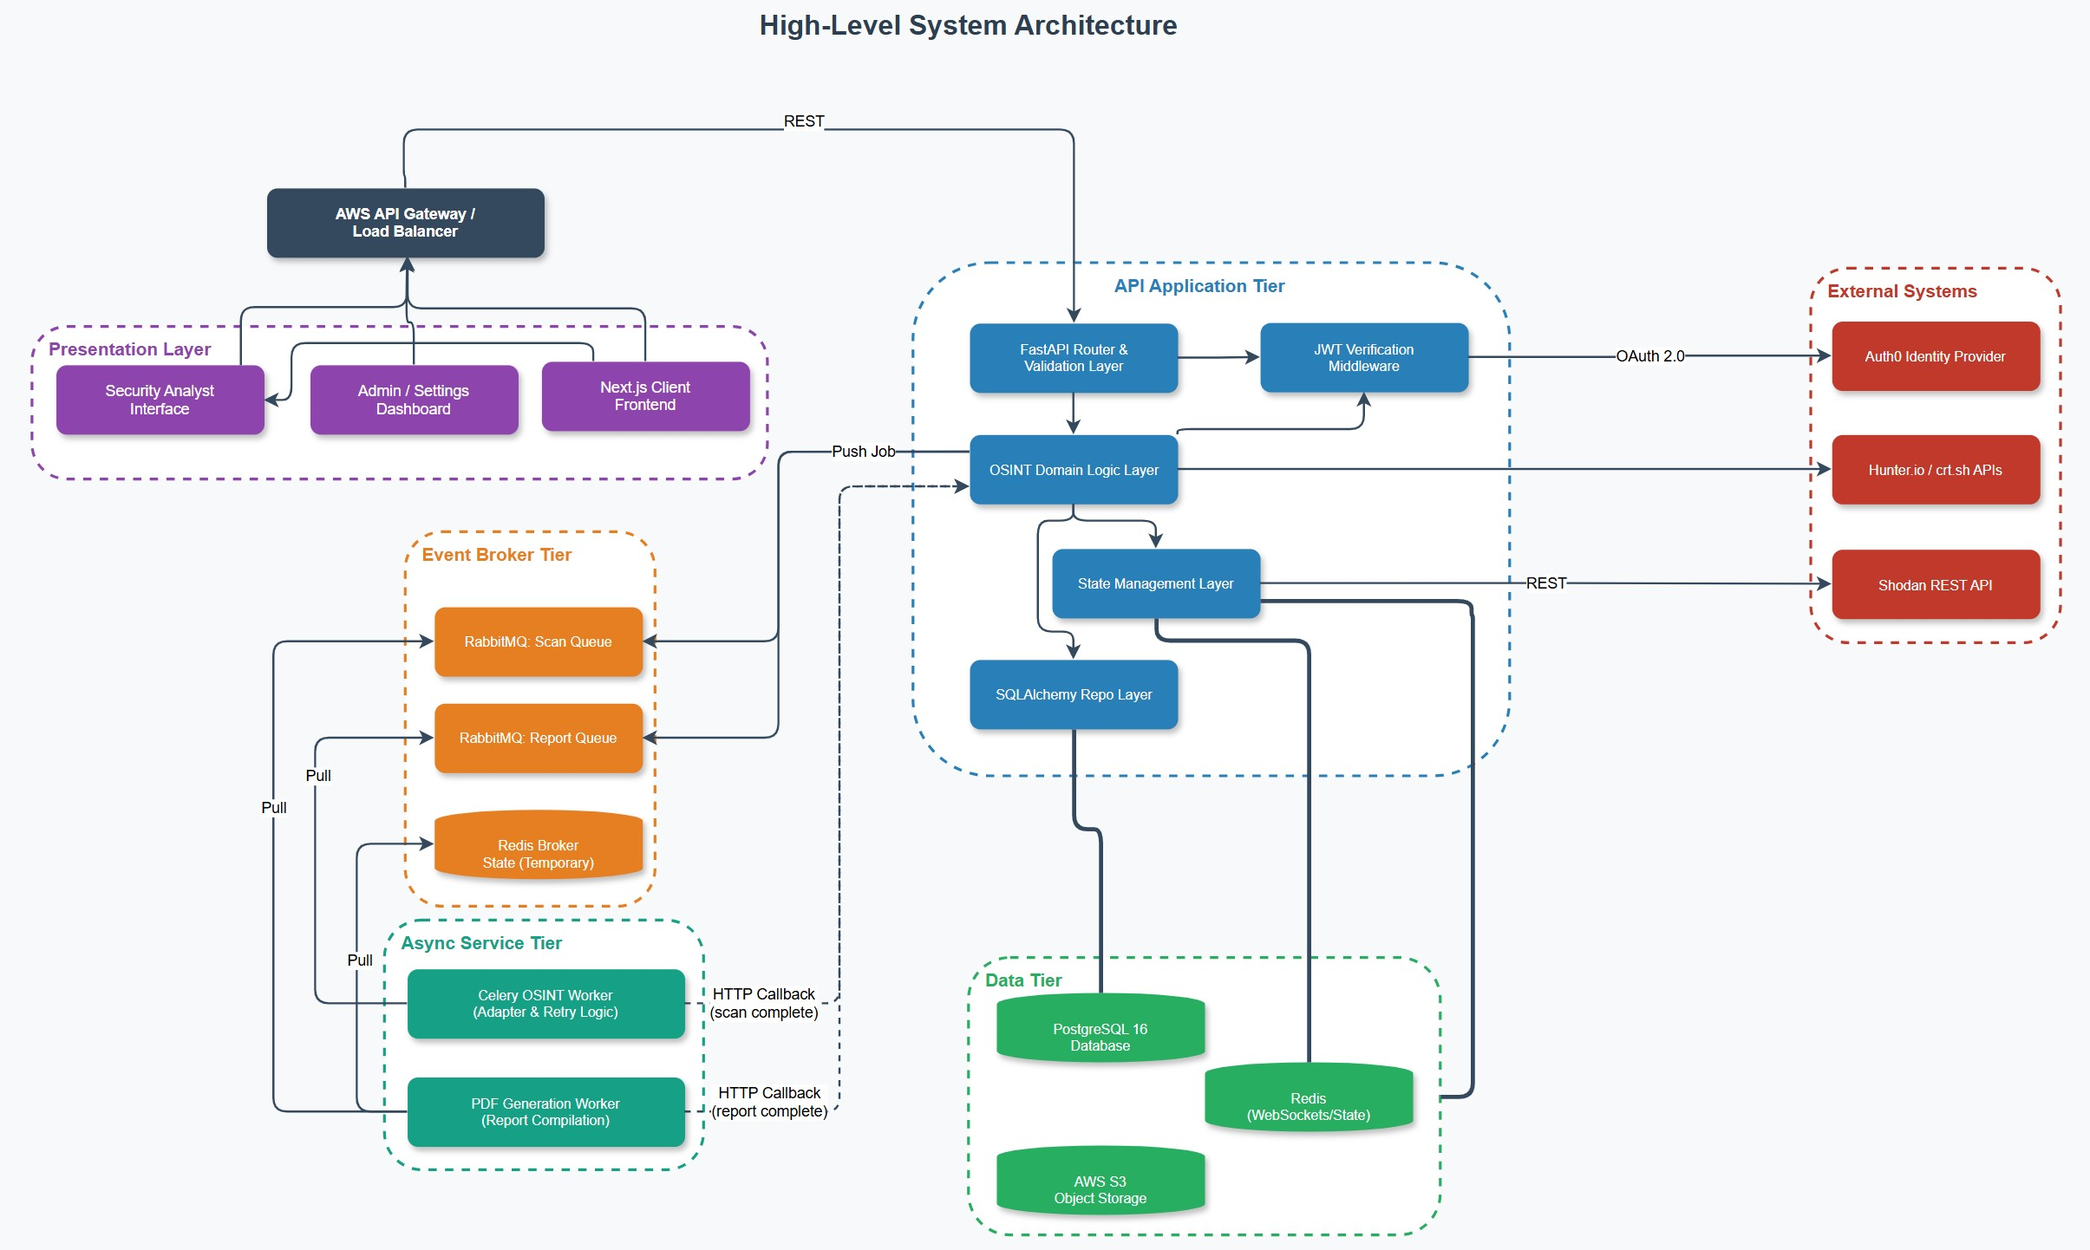
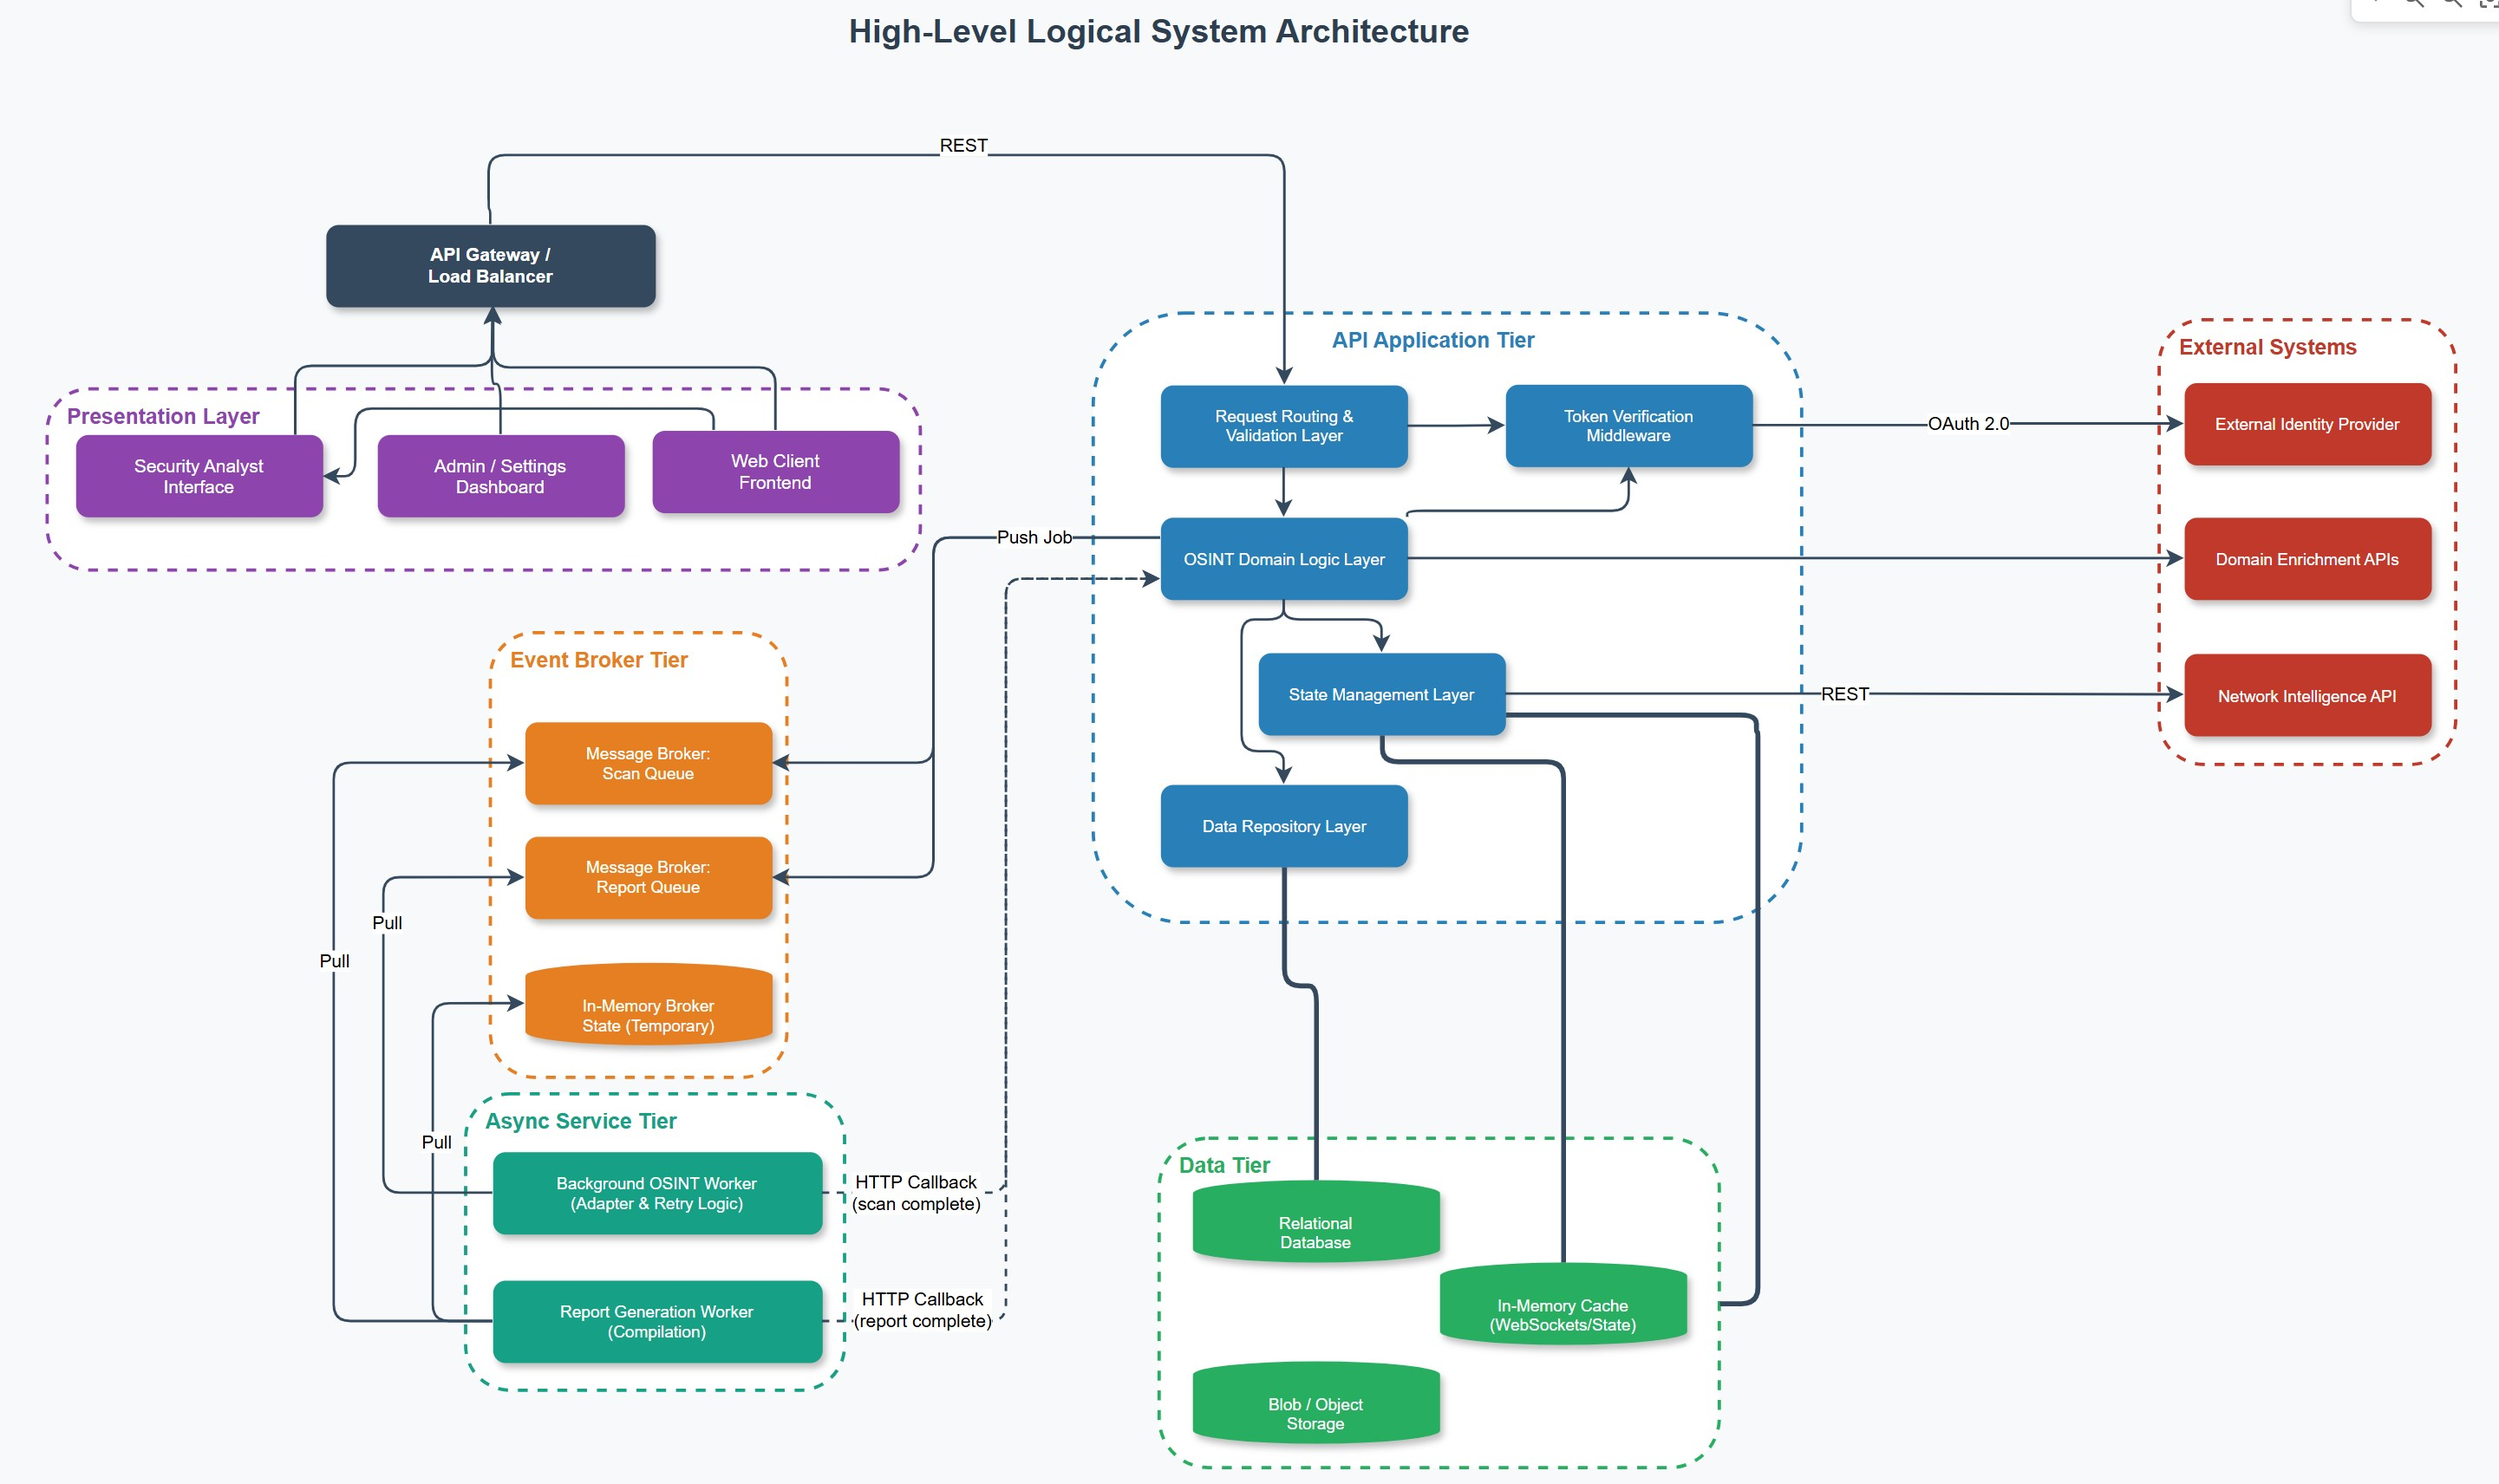
DOCS: Final touches to README and Architecture Diagram rework

diff --git a/README.md b/README.md
@@ -82,7 +82,7 @@ PenFlow is a **layered modular monolith** with an **event-driven orchestration l
 - **Auth:** Auth0 (JWT + RBAC)
 
 ### High-Level System Architecture
-<img src="docs/images/Architecture%20Diagram.png" alt="High-Level System Architecture" width="100%" />
+<img src="docs/Architecture/images/Architecture Diagram.jpg" alt="High-Level System Architecture" width="100%" />
 
 ### Documentation
 - **Software Architecture (Demo 1):** `docs/architecture.md`
@@ -105,73 +105,6 @@ PenFlow is a **layered modular monolith** with an **event-driven orchestration l
 | CI/CD | GitHub Actions |
 | Testing | PyTest, Jest, Cypress |
 
----
-
-## Getting Started (Local)
-
-> These commands assume you have **Docker** installed.
-
-### 1) Configure environment
-Create a `.env` in the repo root:
-
-```env
-POSTGRES_HOST=localhost
-POSTGRES_PORT=5432
-POSTGRES_DB=penflow
-POSTGRES_USER=postgres
-POSTGRES_PASSWORD=postgres
-
-REDIS_URL=redis://localhost:6379/0
-RABBITMQ_URL=amqp://guest:guest@localhost:5672//
-
-AUTH0_DOMAIN=your-domain
-AUTH0_AUDIENCE=your-audience
-AUTH0_ISSUER=your-issuer
-
-AWS_REGION=your-region
-AWS_S3_BUCKET=your-bucket
-AWS_ACCESS_KEY_ID=...
-AWS_SECRET_ACCESS_KEY=...
-```
-
-### 2) Start infrastructure
-```bash
-docker compose up -d postgres redis rabbitmq
-```
-
-### 3) Run API
-```bash
-cd backend
-python -m venv .venv
-source .venv/bin/activate
-pip install -r requirements.txt
-uvicorn app.main:app --reload
-```
-
-### 4) Run worker
-```bash
-cd workers
-source .venv/bin/activate
-celery -A app.celery_app worker --loglevel=INFO
-```
-
-### 5) Run frontend
-```bash
-cd frontend
-npm install
-npm run dev
-```
-
----
-
-## Demo 1 Definition of Done
-
-- [ ] Start CTEM scan from UI
-- [ ] API returns immediately (202) and scan continues asynchronously
-- [ ] Worker pulls scan job from RabbitMQ
-- [ ] Progress updates visible in UI (Redis + WebSockets)
-- [ ] Findings persisted (PostgreSQL)
-- [ ] Report stored and downloadable (S3)
 
 ---
 
